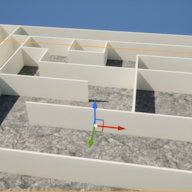
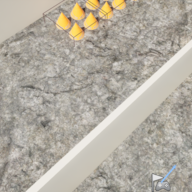
Update readme

diff --git a/Readme.md b/Readme.md
@@ -1,18 +1,43 @@
-# Reach an objective marker
-Design brief and tech spec
+# Solve the Maze
+This is a basic maze that the player will need to navigate in order to get to the end and win. Along the way there is a key hidden that will allow the player to unlock the final door to success. There are numerous spike traps in the level to end the game. The game will also end when the player reaches the final marker.
+
+# Concept Image
+![alt text](Hedge_tower_splash.webp)
+
+Heavily inspired by The Talos Principle
 
 ## Intention
-•	Give the player a goal to reach
-•	Force the player to traverse the level
-•	Giving the player a visual indicator to move towards
+* Give the player a maze to traverse
+* Display the key and door to make them obvious
+* Include spike traps to impede the player
 
-##Technical Spec
-•	Visually represented
-o	Diamond shape
-o	Glowing
-o	Floating above the ground
-o	Rotating slowly
-o	Bobbing up and down slightly
-•	Notice when you reach it
-•	After reaching it, it disappears
-•	Notify some other system that it has been reached
+
+### Key
+* Upside down pyramid
+* Glows orange
+* Floating above a platform
+* Rotates slowly to indicate importance
+
+### Spikes
+* Yellow
+* Cone shaped to indicate pointiness
+* Sets of four
+* Seemingly emerging from the ground
+* Instant death
+
+### Locked Door
+* Brick
+* Will warn player on approach
+* Disappears if player possesses the key
+
+### End Platform
+* Silver
+* On the ground
+* Will congratulate player on contact
+
+## Challenges
+* Player can easily get lost
+* Looping paths
+* Spikes
+* No indication of objective destination
+* High walls make visibility poor
